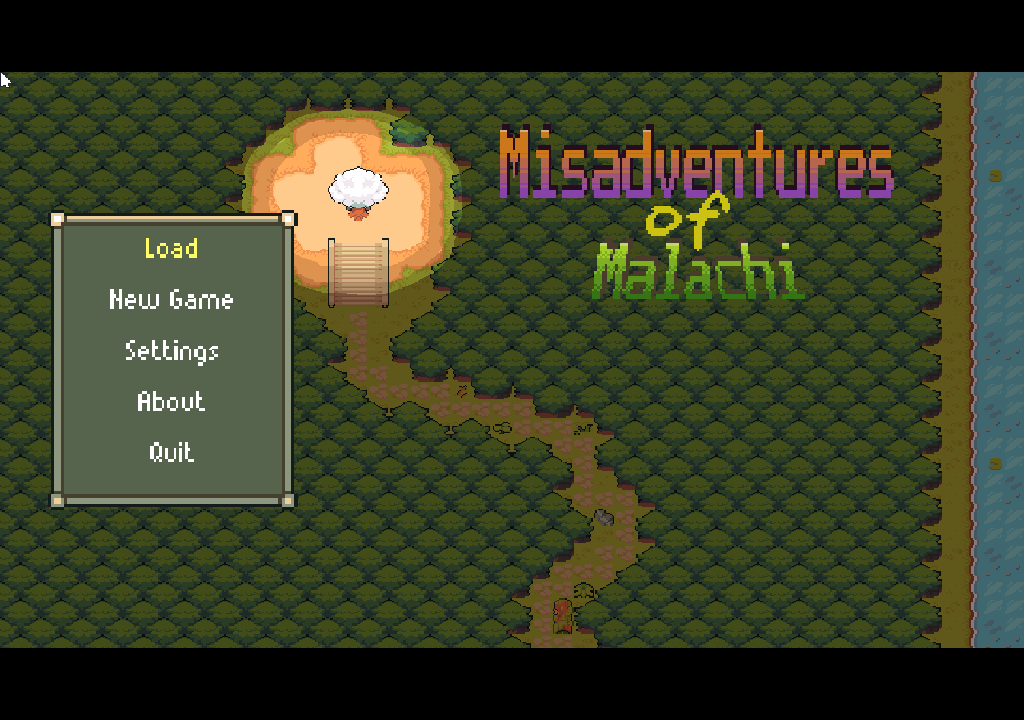
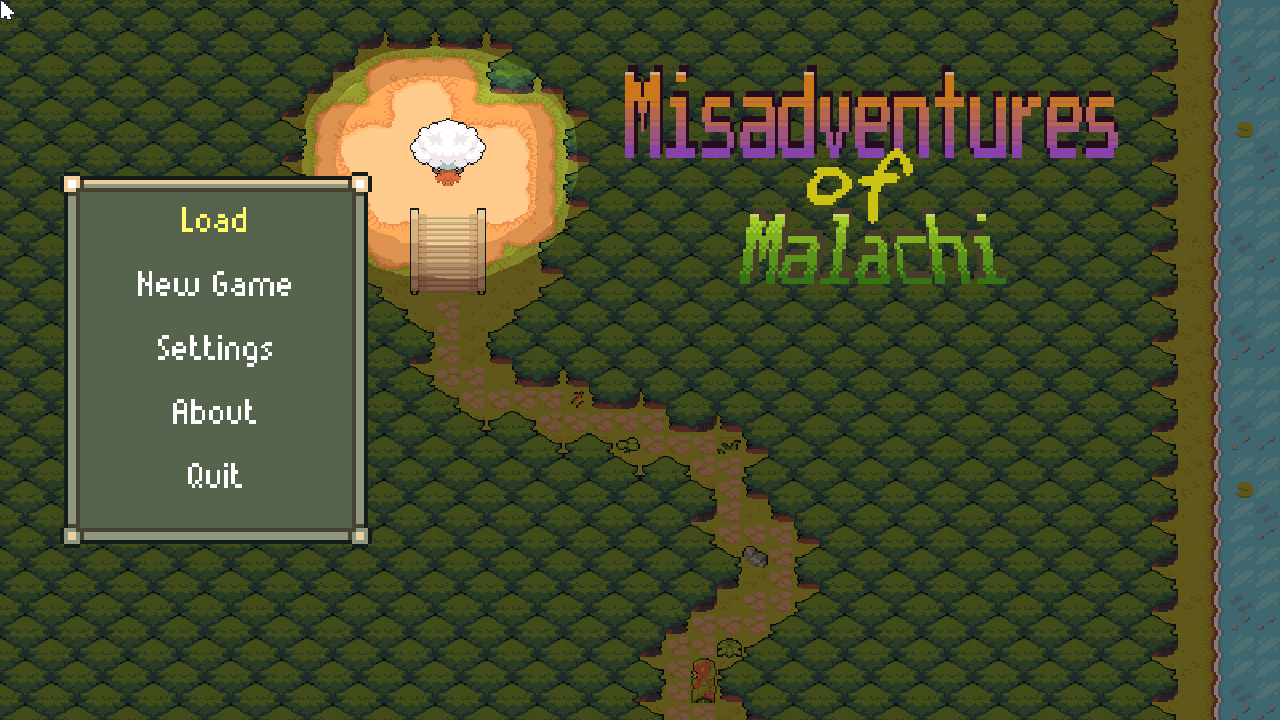
fix(screenshot): capture directly from canvas before flip to resolve black/white screen on macOS

diff --git a/project/game.py b/project/game.py
@@ -598,7 +598,7 @@ class Game:
             time_str = datetime.now().strftime("%Y%m%d_%H%M%S")
             file_name = SCREENSHOTS_DIR / f"screenshot_{time_str}.png"
             os.makedirs(file_name.parent, exist_ok=True)
-            pygame.image.save(self.screen, file_name)
+            pygame.image.save(self.canvas, file_name)
             if IS_WEB:
                 import platform
 
@@ -1016,6 +1016,16 @@ class Game:
 
         if self.is_paused:
             self.show_pause_message()
+
+        if INPUTS["screenshot"] and not USE_SHADERS:
+            state = self.states[-1]
+            add_notification = (
+                state.add_notification
+                if hasattr(state, "add_notification")
+                else self.add_notification_dummy
+            )
+            self.save_screenshot(add_notification)
+
         # than scale and copy on final Surface (game.screen)
 
         _scale = settings.SCALE
@@ -1035,15 +1045,6 @@ class Game:
         #     self.screen.blit(self.HUD, (0, 0))
 
         pygame.display.flip()
-
-        if INPUTS["screenshot"] and not USE_SHADERS:
-            state = self.states[-1]
-            add_notification = (
-                state.add_notification
-                if hasattr(state, "add_notification")
-                else self.add_notification_dummy
-            )
-            self.save_screenshot(add_notification)
 
         # save screenshot if an external agent requested one (no-op unless enabled)
         if self.agent_ctrl:

diff --git a/Tasks/Backlog/T-019 ręczny zapis screenshot (F6) nie działa.md b/Tasks/Backlog/T-019 ręczny zapis screenshot (F6) nie działa.md
@@ -53,7 +53,12 @@ klawisz F6 powinien uruchomić logikę ręcznego zapisu zdjęcia gry (screenshot
 - 2026-07-04 23:21 opencode: Naprawiono blad z niepoprawnym zapisem zrzutu ekranu (F6) przy wylaczonych shaderach (USE_SHADERS = False). Logika save_screenshot polegala wylacznie na buforze OpenGL z postprocessingu, przez co w trybie bez shaderow wchodzila w nieskonczona petle i nie zapisywala pliku. Teraz dla trybu bez shaderow zapisuje self.screen bezposrednio na dysk przy uzyciu pygame.image.save i od razu resetuje stan INPUTS['screenshot'].
 - 2026-07-04 23:21 opencode: Zaimplementowano obsluge zapisu zrzutu ekranu w trybie z wylaczonymi shaderami (USE_SHADERS = False). Zrzut ekranu jest teraz zapisywany przy uzyciu pygame.image.save, co rozwiazuje blad nieskonczonej petli. Aby przetestować, wystarczy uruchomic gre i nacisnac klawisz F6.
 - 2026-07-04 23:21 opencode: Naprawiono manualny zapis zrzutu ekranu (F6) w trybie bez shaderow. Zrzut ekranu jest teraz zapisywany przy uzyciu pygame.image.save, a powiadomienie wyswietla sie poprawnie przy uzyciu aktywnego managera powiadomien stanu gry.
-- 2026-07-04 23:21 user: załączony obrazek nie przedstawia screenshotu gry tylko jest jednolicie czerwony 
+- 2026-07-04 23:21 user: załączony obrazek nie przedstawia screenshotu gry tylko jest jednolicie czerwony
+- 2026-07-04 23:21 user: to nadal nie działa - screen bierze nie ten canvas albo w złym momencie, zobacz przykłady:
+screenshots/screenshot_20260705_073401.png
+screenshots/screenshot_20260705_073404.png
+- 2026-07-05 07:44 opencode: Zidentyfikowano i usunieto glowna przyczyne bledu: na systemach macOS z wyswietlaczami High-DPI/Retina, a takze z uwagi na podwojne buforowanie SDL2, zapisywanie glównej powierzchni ekranu (self.screen) po pygame.display.flip() zwracalo niepoprawny (pusty lub bialy) bufor klatki. Problem rozwiazano poprzez: 1. Zapisywanie zrzutu bezposrednio z canvasu gry (self.canvas), ktory jest normalna, stabilna powierzchnia CPU i zawiera 100% wyrenderowanej sceny (tlo, mapy, postacie, HUD i kursor). 2. Wywolywanie logiki zapisu przed display.flip() i skalowaniem okna, co gwarantuje idealna jakosc zrzutu w natywnej rozdzielczosci gry bez zadnych znieksztalcen systemowych. Zweryfikowano testem i dodano poprawny zrzut ekranu.
 
 ## 🙋 Needs-You / Questions
+
 

diff --git a/Tasks/board.md b/Tasks/board.md
@@ -19,6 +19,7 @@ tags:
 
 - [ ] [[T-018 Load z menu głównego nie działa]] #bug #p1 #opencode #review
 - [ ] [[T-020 Widget pola tekstowego (TextInput) w module UI]] #feature #p2 #cc #review
+- [ ] [[T-019 ręczny zapis screenshot (F6) nie działa]] #bug #p2 #opencode #review
 
 ## 🏁 Done
 
@@ -27,8 +28,6 @@ tags:
 - [ ] [[T-015 Continue w menu głównym tylko przy trwającej grze]] #feature #p2 #opencode
 - [ ] [[T-016 Load w menu głównym pokazuje wybór slotu i wczytuje grę]] #feature #p2 #opencode
 - [ ] [[T-017 DeathScreen i DeadState pokazują wybór slotu do wczytania]] #feature #p2
-- [ ] [[T-019 ręczny zapis screenshot (F6) nie działa]] #bug #p2 #opencode
-
 
 ## Archive
 